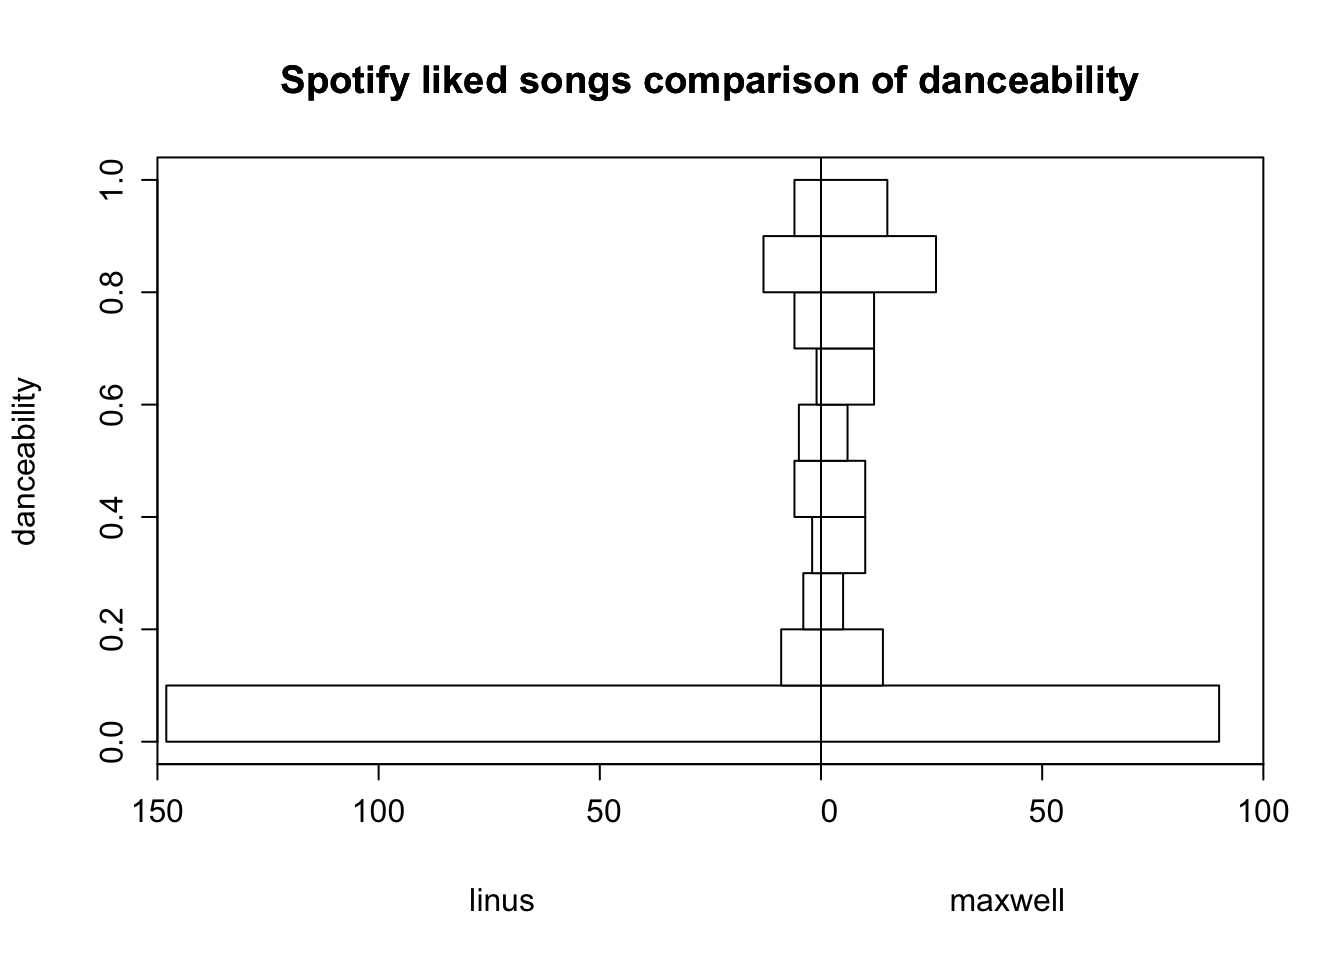
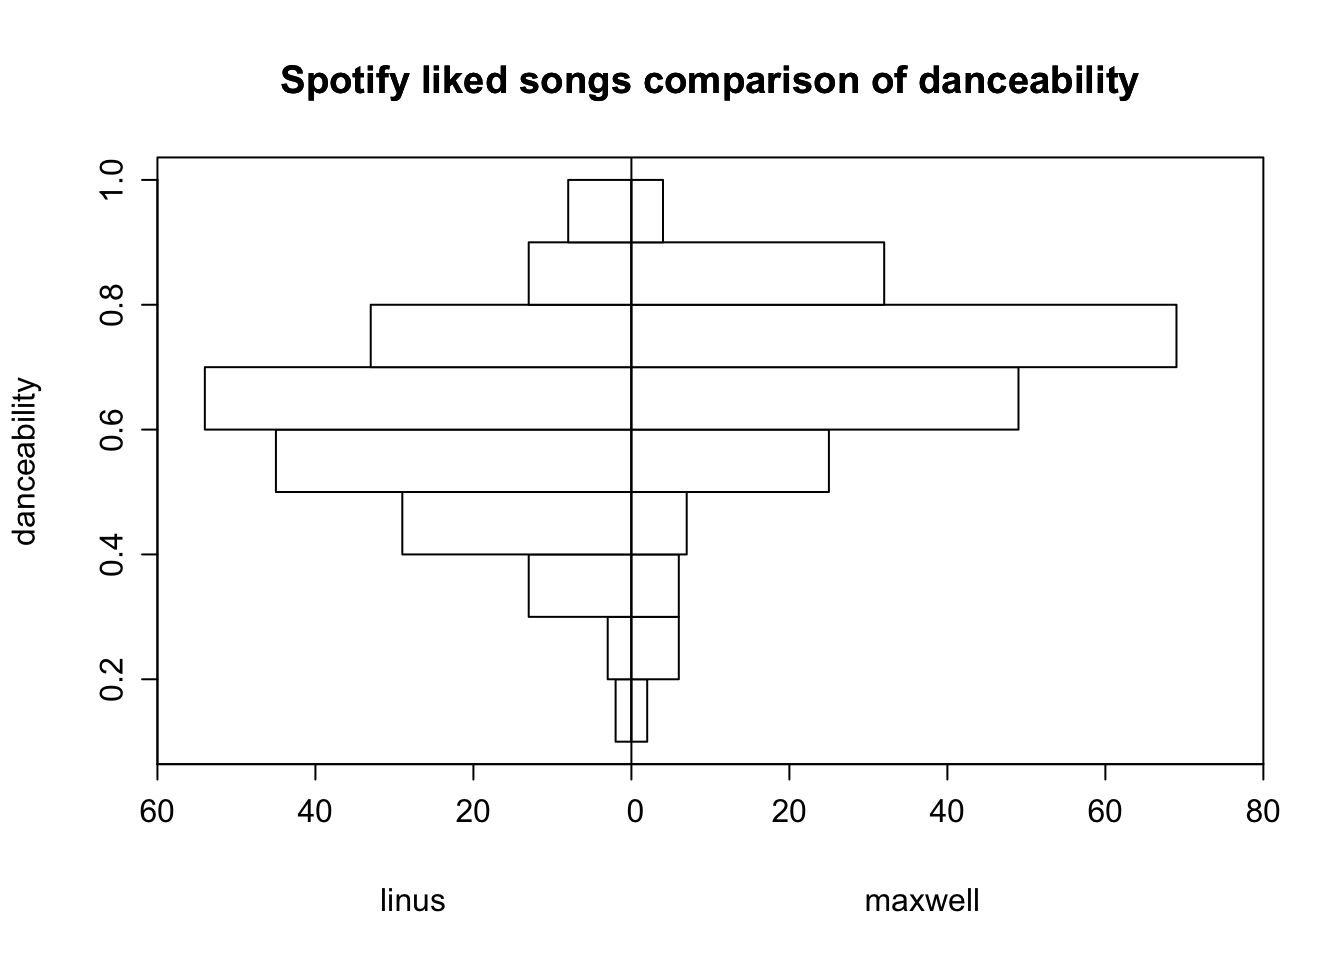
donzo

diff --git a/docs/blog/2024-3-29-post/index.html b/docs/blog/2024-3-29-post/index.html
@@ -302,7 +302,7 @@ pre > code.sourceCode > span > a:first-child::before { text-decoration: underlin
 <details>
 <summary>Code</summary>
 <div class="sourceCode cell-code" id="cb7"><pre class="sourceCode r code-with-copy"><code class="sourceCode r"><span id="cb7-1"><a href="#cb7-1" aria-hidden="true" tabindex="-1"></a><span class="co"># compare distribution of danceability for Linus and Maxwell</span></span>
-<span id="cb7-2"><a href="#cb7-2" aria-hidden="true" tabindex="-1"></a>Hmisc<span class="sc">::</span><span class="fu">histbackback</span>(<span class="fu">split</span>(combined_tracks<span class="sc">$</span>instrumentalness, combined_tracks<span class="sc">$</span>name),</span>
+<span id="cb7-2"><a href="#cb7-2" aria-hidden="true" tabindex="-1"></a>Hmisc<span class="sc">::</span><span class="fu">histbackback</span>(<span class="fu">split</span>(combined_tracks<span class="sc">$</span>danceability, combined_tracks<span class="sc">$</span>name),</span>
 <span id="cb7-3"><a href="#cb7-3" aria-hidden="true" tabindex="-1"></a>             <span class="at">main =</span> <span class="st">"Spotify liked songs comparison of danceability"</span>, </span>
 <span id="cb7-4"><a href="#cb7-4" aria-hidden="true" tabindex="-1"></a>             <span class="at">ylab =</span> <span class="st">"danceability"</span>,</span>
 <span id="cb7-5"><a href="#cb7-5" aria-hidden="true" tabindex="-1"></a>             <span class="at">xlab =</span> <span class="fu">c</span>(<span class="st">"linus"</span>, <span class="st">"maxwell"</span>))</span></code><button title="Copy to Clipboard" class="code-copy-button"><i class="bi"></i></button></pre></div>

diff --git a/docs/blog.html b/docs/blog.html
@@ -161,7 +161,7 @@ ul.task-list li input[type="checkbox"] {
 
 <div class="quarto-listing quarto-listing-container-default" id="listing-listing">
 <div class="list quarto-listing-default">
-<div class="quarto-post image-right" data-index="0" data-categories="Machine Learning,R" data-listing-date-sort="1711695600000" data-listing-file-modified-sort="1711767368030" data-listing-date-modified-sort="NaN" data-listing-reading-time-sort="24">
+<div class="quarto-post image-right" data-index="0" data-categories="Machine Learning,R" data-listing-date-sort="1711695600000" data-listing-file-modified-sort="1711770531178" data-listing-date-modified-sort="NaN" data-listing-reading-time-sort="24">
 <div class="thumbnail">
 <p><a href="./blog/2024-3-29-post/index.html"> <img src="./blog/2024-3-29-post/plot.jpeg" class="thumbnail-image"> </a></p>
 </div>

diff --git a/docs/blog/2024-3-12-post/index.html b/docs/blog/2024-3-12-post/index.html
@@ -165,7 +165,6 @@ div.csl-indent {
                           <div class="quarto-categories">
                 <div class="quarto-category">Data Visualization</div>
                 <div class="quarto-category">Methane</div>
-                <div class="quarto-category">Energy Transition</div>
                 <div class="quarto-category">R</div>
               </div>
                   </div>
